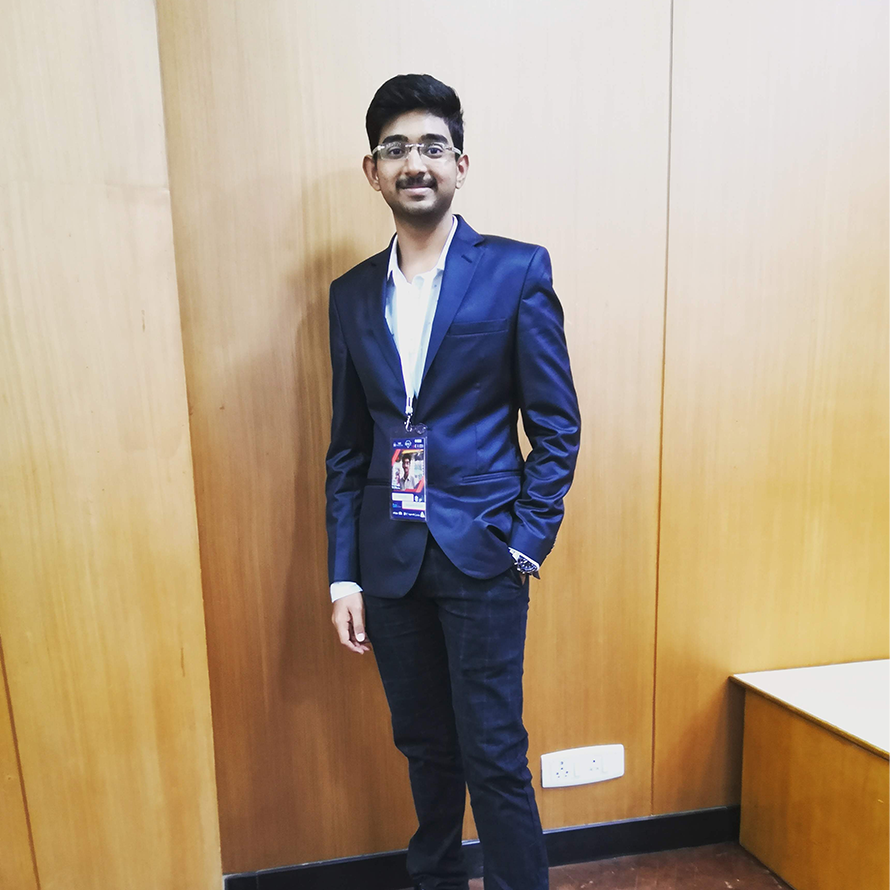
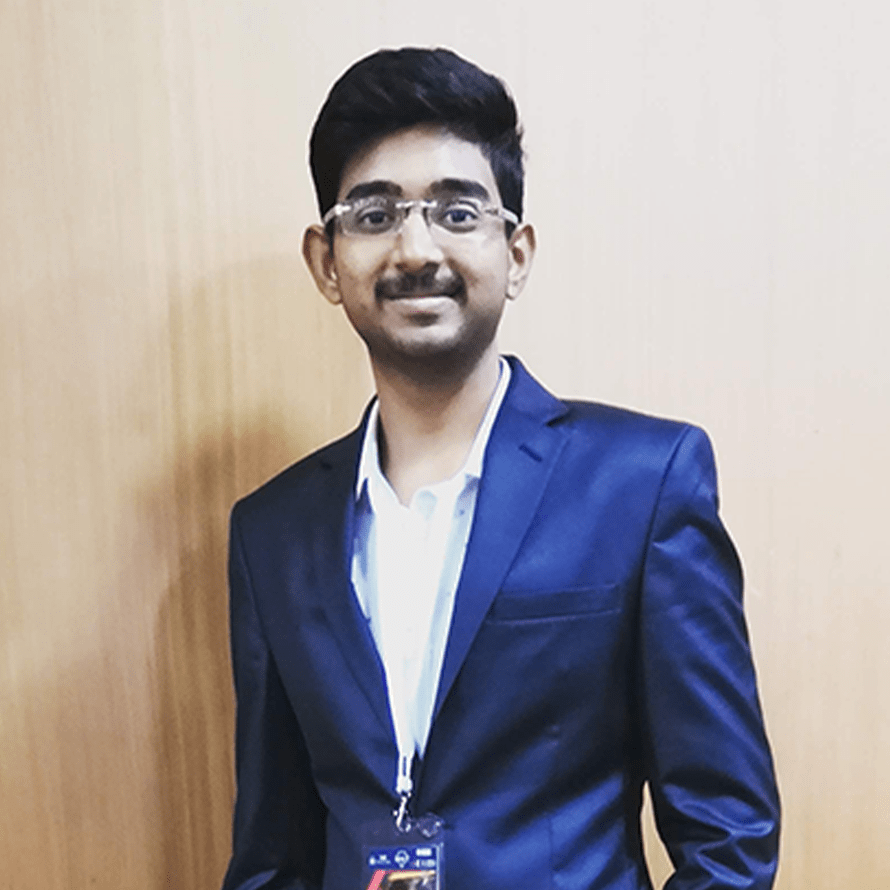
Added compressed images in leadership section

diff --git a/index.html b/index.html
@@ -351,7 +351,7 @@
                     </div>
                     <div class="card-column">
                         <div class="card">
-                            <img src="https://images.unsplash.com/photo-1589730823931-07da2a7bf09c?ixlib=rb-1.2.1&ixid=eyJhcHBfaWQiOjEyMDd9&auto=format&fit=crop&w=1000&q=80"
+                            <img src="./img/Harshul.png"
                                 alt="Harshul Patel" style="width:100%">
                             <div class="img-text">
                                 <h2>Harshul Patel</h2>
